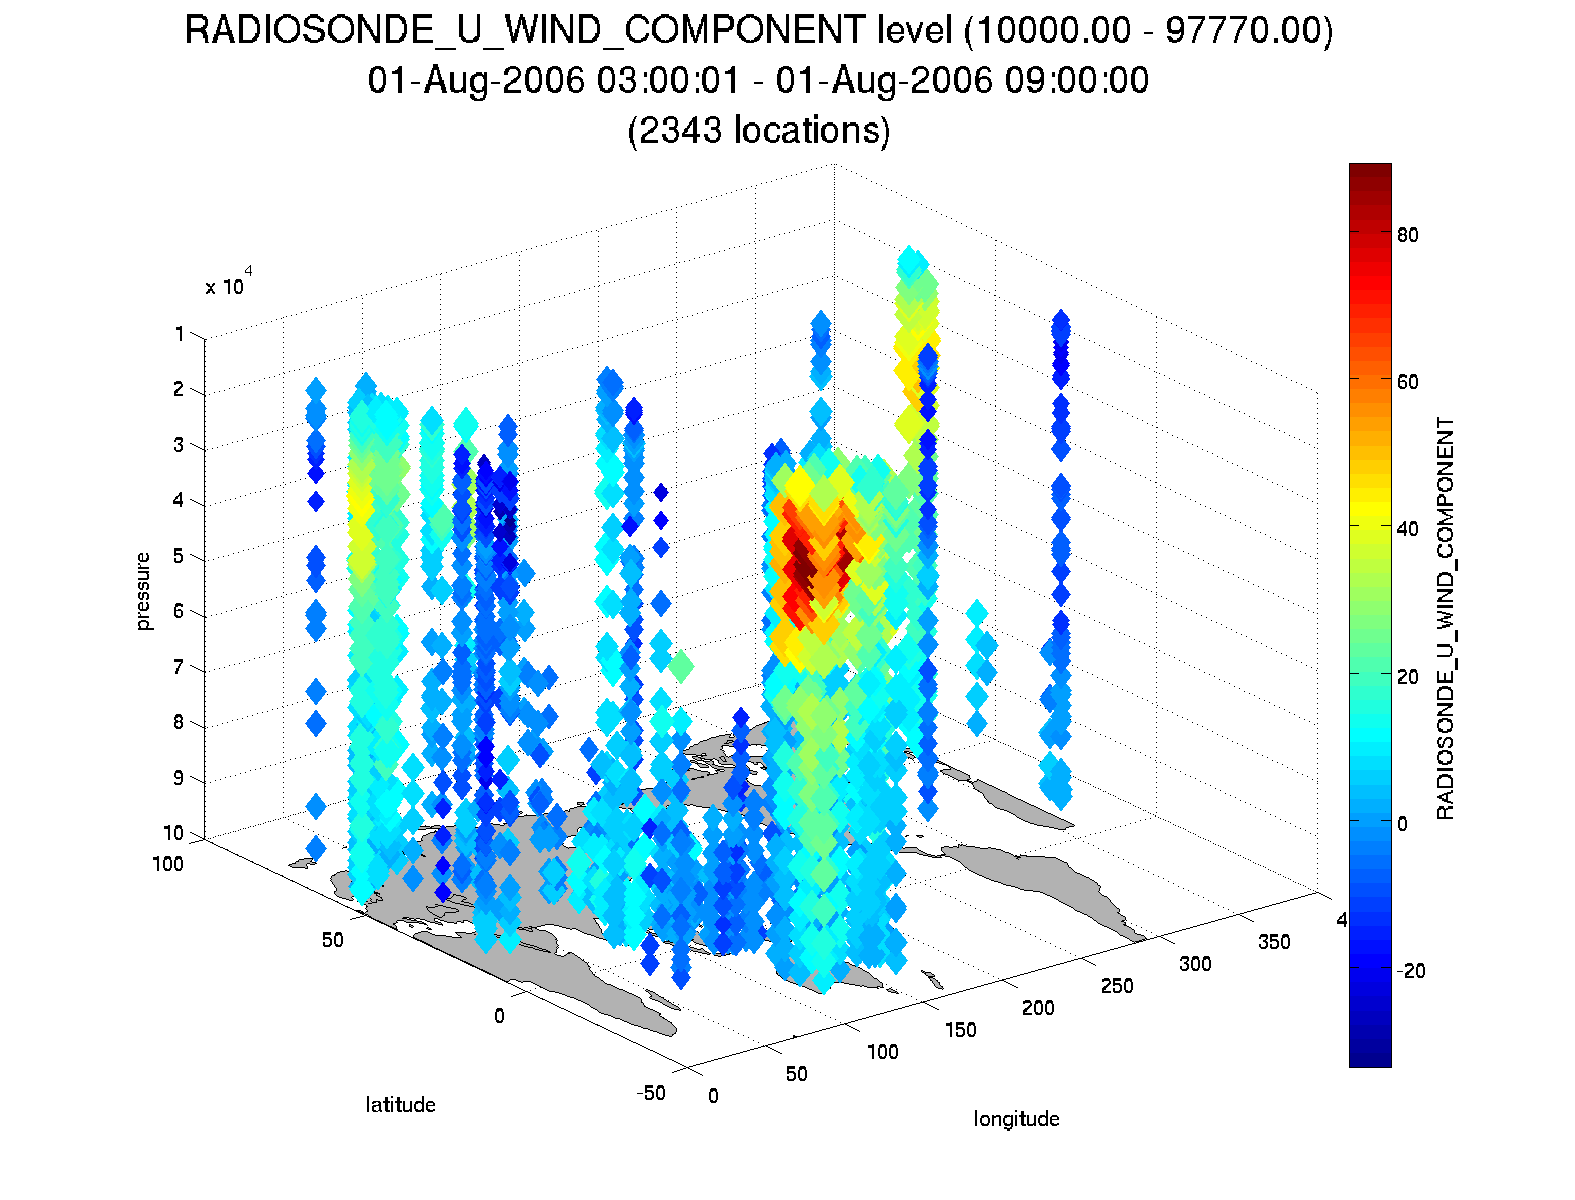
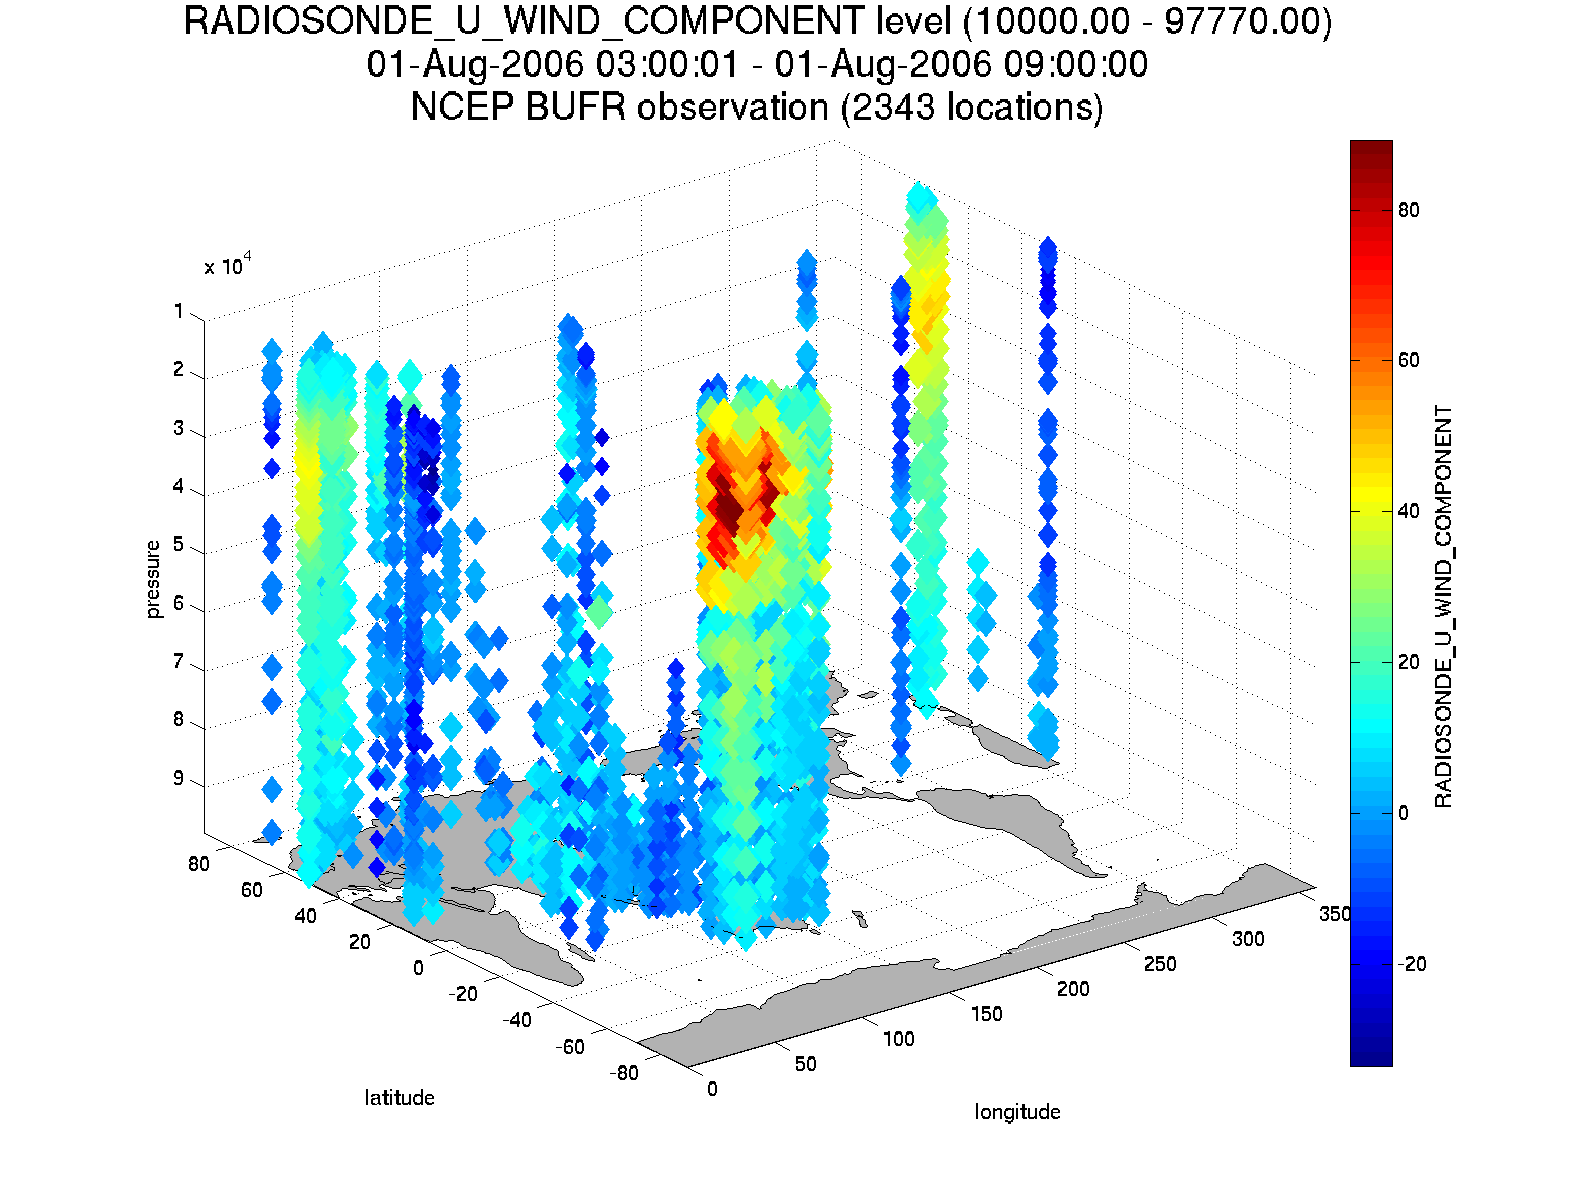
incorporated comments from WRF/DART presentation
git-svn-id: https://subversion.ucar.edu/DAReS/DART/trunk@3876 acad1b26-7d42-44b9-9cec-aac8293558f5

diff --git a/diagnostics/threed_sphere/obs_seq_to_netcdf.html b/diagnostics/threed_sphere/obs_seq_to_netcdf.html
@@ -308,8 +308,75 @@ obs_def_?????.f90 files.
     <!--  type  --><TD valign=top> logical </TD>
     <!--descript--><TD>Prints the assimilation schedule.<BR>
             Default: .false. </TD></TR>  
-
 </TABLE>
+
+<H3 class="indent1">Example</H3>
+<P>The following example illustrates the fact the <em class="code">last_bin_end</em>
+does not have to be a 'perfect' bin end - and it gives you an idea of an
+assimilation schedule table. Note that the user input defines the last bin to
+end at 09 Z, but the last bin in the table ends at 06 Z.
+<br />
+<br />
+<div class="routine">
+<pre>
+&#38;schedule_nml
+   calendar        = 'Gregorian',
+   first_bin_start =  2006, 8, 1, 0, 0, 0 ,
+   first_bin_end   =  2006, 8, 1, 6, 0, 0 ,
+   last_bin_end    =  2006, 8, 2, 9, 0, 0 ,
+   bin_interval_days    = 0,
+   bin_interval_seconds = 21600,
+   max_num_bins         = 1000,
+   print_table          = .true.
+   /
+</pre>
+</div>
+<br />
+This is the 'table' part of the run-time output:
+<br />
+<br />
+<div class="unix">
+<pre>
+Requesting  5  assimilation periods.
+ 
+epoch      1  start day=148135, sec=1
+epoch      1    end day=148135, sec=21600
+epoch      1  start 2006 Aug 01 00:00:01
+epoch      1    end 2006 Aug 01 06:00:00
+ 
+epoch      2  start day=148135, sec=21601
+epoch      2    end day=148135, sec=43200
+epoch      2  start 2006 Aug 01 06:00:01
+epoch      2    end 2006 Aug 01 12:00:00
+ 
+epoch      3  start day=148135, sec=43201
+epoch      3    end day=148135, sec=64800
+epoch      3  start 2006 Aug 01 12:00:01
+epoch      3    end 2006 Aug 01 18:00:00
+ 
+epoch      4  start day=148135, sec=64801
+epoch      4    end day=148136, sec=0
+epoch      4  start 2006 Aug 01 18:00:01
+epoch      4    end 2006 Aug 02 00:00:00
+ 
+epoch      5  start day=148136, sec=1
+epoch      5    end day=148136, sec=21600
+epoch      5  start 2006 Aug 02 00:00:01
+epoch      5    end 2006 Aug 02 06:00:00
+</pre>
+</div>
+<br />
+Notice that the leading edge of an assimilation window/bin/epoch/period 
+is actually 1 second <strong>after</strong> the specified start time.
+This is consistent with the way DART has always worked. If you specify
+assimilation windows that fully occupy the temporal continuum, 
+there has to be some decision at the edges. An observation precisely 
+ON the edge should only participate in one assimilation window. 
+Historically, DART has always taken observations
+precisely on an edge to be part of the subsequent assimilation cycle.
+The smallest amount of time representable to DART is 1 second, so the
+smallest possible delta is added to one of the assimilation edges.
+</P>
 
 <!--==================================================================-->
 <!-- Describe the Files Used by this module.                          -->
@@ -341,6 +408,8 @@ obs_def_?????.f90 files.
         the bias between 'observation' and 'prior ensemble mean', for example.
         Again, more on that in the 'Usage' section below.
 	</LI>
+    <LI><em class="file">observations/utilities/read_obs_netcdf.m</em> will
+        be coming soon to a repository near you. </LI>
 </UL>
 
 <H3 class="indent1">Discussion of obs_sequence_xxx.nc structure</H3>
@@ -472,8 +541,12 @@ radiosonde surface pressure observation.
 <H3 class="indent1">obs_seq_to_netcdf</H3>
 <P>
 <em class="program">obs_seq_to_netcdf</em> is built and run in 
-...<em class="file">/DART/models/</em>your_model<em class="file">/work</em>, 
-in the same way as the other DART components. After the program has been run,
+<em class="file">/DART/observations/utilities/threed_sphere</em> 
+in the same way as the other DART components. That directory is 
+intentionally designed to hold components that are model-insensitive.
+Essentially, we avoid having to populate every <em class="file">model</em> 
+directory with identical <em class="file">mkmf_obs_seq_to_netcdf</em> and 
+<em class="file">path_names_obs_seq_to_netcdf</em> files. After the program has been run,
 <em class="file">/DART/observations/utilities/threed_sphere/</em><em
 class="program">plot_obs_netcdf.m</em> can be run to plot the observations.
 The only thing that is tricky is the fact that the table of known
@@ -481,6 +554,121 @@ observation types in the netCDF file is not pruned down to reflect the
 contents of the netCDF file. As a consequence, a dump of <em
 class="code">ObsObsTypesMetaData</em> might lead you to try to plot 
 observation types that do not exist in the file. Stay tuned.
+<br />
+<H4 class="indent1">example</H4>
+<div class="routine">
+<pre>
+&#38;schedule_nml
+   calendar        = 'Gregorian',
+   first_bin_start =  2006, 8, 1, 3, 0, 0 ,
+   first_bin_end   =  2006, 8, 1, 9, 0, 0 ,
+   last_bin_end    =  2006, 8, 3, 3, 0, 0 ,
+   bin_interval_days    = 0,
+   bin_interval_seconds = 21600,
+   max_num_bins         = 1000,
+   print_table          = .true.
+   /
+
+&#38;obs_seq_to_netcdf_nml
+   obs_sequence_name = '/users/thoar/temp/obs_0001/obs_seq.final'
+   lonlim1    =    0.0,
+   lonlim2    =  360.0,
+   latlim1    =  -80.0,
+   latlim2    =   80.0,
+   verbose    = .false.
+   /
+</pre>
+</div>
+<br />
+<br />
+Here is the pruned run-time output. Note that multiple input observation
+sequence files are queried and the routine ends (in this case) when the
+first observation time in a file is beyond the last time of interest.
+<br />
+<br />
+<div class="unix">
+<pre>
+ --------------------------------------
+ Starting ... at YYYY MM DD HH MM SS = 
+                 2009  5 15  9  0 23
+ Program obs_seq_to_netcdf
+ --------------------------------------
+ 
+ Requesting            8  assimilation periods.
+ 
+epoch      1  start day=148135, sec=10801
+epoch      1    end day=148135, sec=32400
+epoch      1  start 2006 Aug 01 03:00:01
+epoch      1    end 2006 Aug 01 09:00:00
+ 
+epoch      2  start day=148135, sec=32401
+epoch      2    end day=148135, sec=54000
+epoch      2  start 2006 Aug 01 09:00:01
+epoch      2    end 2006 Aug 01 15:00:00
+ 
+epoch      3  start day=148135, sec=54001
+epoch      3    end day=148135, sec=75600
+epoch      3  start 2006 Aug 01 15:00:01
+epoch      3    end 2006 Aug 01 21:00:00
+ 
+epoch      4  start day=148135, sec=75601
+epoch      4    end day=148136, sec=10800
+epoch      4  start 2006 Aug 01 21:00:01
+epoch      4    end 2006 Aug 02 03:00:00
+ 
+epoch      5  start day=148136, sec=10801
+epoch      5    end day=148136, sec=32400
+epoch      5  start 2006 Aug 02 03:00:01
+epoch      5    end 2006 Aug 02 09:00:00
+ 
+epoch      6  start day=148136, sec=32401
+epoch      6    end day=148136, sec=54000
+epoch      6  start 2006 Aug 02 09:00:01
+epoch      6    end 2006 Aug 02 15:00:00
+ 
+epoch      7  start day=148136, sec=54001
+epoch      7    end day=148136, sec=75600
+epoch      7  start 2006 Aug 02 15:00:01
+epoch      7    end 2006 Aug 02 21:00:00
+ 
+epoch      8  start day=148136, sec=75601
+epoch      8    end day=148137, sec=10800
+epoch      8  start 2006 Aug 02 21:00:01
+epoch      8    end 2006 Aug 03 03:00:00
+ 
+ obs_seq_to_netcdf  opening /users/thoar/temp/obs_0001/obs_seq.final
+ 
+ num_obs_in_epoch (           1 ) =       103223
+ InitNetCDF  obs_sequence_001.nc is fortran unit            5
+ num_obs_in_epoch (           2 ) =       186523
+ InitNetCDF  obs_sequence_002.nc is fortran unit            5
+ num_obs_in_epoch (           3 ) =       110395
+ InitNetCDF  obs_sequence_003.nc is fortran unit            5
+ num_obs_in_epoch (           4 ) =       191957
+ InitNetCDF  obs_sequence_004.nc is fortran unit            5
+
+ obs_seq_to_netcdf  opening /users/thoar/temp/obs_0002/obs_seq.final
+
+ num_obs_in_epoch (           5 ) =        90683
+ InitNetCDF  obs_sequence_005.nc is fortran unit            5
+ num_obs_in_epoch (           6 ) =       186316
+ InitNetCDF  obs_sequence_006.nc is fortran unit            5
+ num_obs_in_epoch (           7 ) =       109465
+ InitNetCDF  obs_sequence_007.nc is fortran unit            5
+ num_obs_in_epoch (           8 ) =       197441
+ InitNetCDF  obs_sequence_008.nc is fortran unit            5
+
+ obs_seq_to_netcdf  opening /users/thoar/temp/obs_0003/obs_seq.final
+ 
+ --------------------------------------
+ Finished ... at YYYY MM DD HH MM SS = 
+                 2009  5 15  9  2 56
+ $URL$
+ $Revision$
+ $Date$
+ --------------------------------------
+</pre>
+</div>
 <P/>
 
 <H3 class="indent1">Matlab helper functions</H3>
@@ -542,7 +730,6 @@ N =  6993 ACARS_V_WIND_COMPONENT       obs (type  11) between levels 17870.00 an
 N =  6717 ACARS_TEMPERATURE            obs (type  12) between levels 17870.00 and 76680.00
 N = 20713 SAT_U_WIND_COMPONENT         obs (type  22) between levels 10050.00 and 99440.00
 N = 20713 SAT_V_WIND_COMPONENT         obs (type  23) between levels 10050.00 and 99440.00
-N = 20713 SAT_V_WIND_COMPONENT         obs (type  23) between levels 10050.00 and 99440.00
 N =   723 GPSRO_REFRACTIVITY           obs (type  46) between levels 220.00 and 12000.00
 NCEP BUFR observation is copy   1
 DART quality control is copy   2
@@ -553,7 +740,12 @@ Removing 993 obs with a DART quality control value greater than 2.000000
 <br />
 you get the plots at the top of this document. If you have a relatively
 new version of Matlab, you can dynamically rotate the 3D view ...
-coooool. The vertical levels are reported so you can restrict the area
+coooool. Even spiffier, if you click on the observations (try the BAD
+observations), Matlab reports the lat/lon/level of these observations. 
+At least R2008b does, I haven't tried it with all the other variants. 
+<br />
+<br />
+The vertical levels are reported so you can restrict the area
 of interest with the 'region' variable [minlon maxlon minlat maxlat
 minlevel maxlevel]. Only the observations with a QC value less than or
 equal to 'maxQC' are plotted in 'Figure 1'. Note the values of 'QCString' 
@@ -567,7 +759,9 @@ keen on a 3D plot, simply change the view to be directly 'overhead':
 </div>
 <br />
 And if you act today, we'll throw in a structure containing the selected
-data AT NO EXTRA CHARGE:
+data AT NO EXTRA CHARGE.  Ryan has requested the obvious ... a function 
+to simply return the observations without plotting. I'm working on it.
+I am embarrassed I didn't start with that.
 <br />
 <br />
 <div class="unix">
